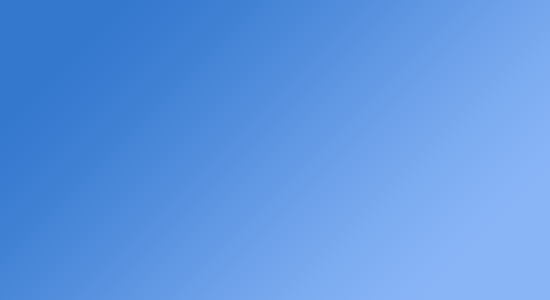
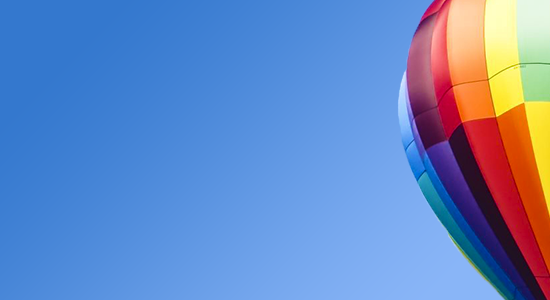
Updated AboutApplicationDialog

Changed region(s): [[0.7109, 0.0, 1.0, 1.0]]

diff --git a/src/main/java/com/github/benchdoos/weblocopener/gui/AboutApplicationDialog.java b/src/main/java/com/github/benchdoos/weblocopener/gui/AboutApplicationDialog.java
@@ -54,10 +54,10 @@ public class AboutApplicationDialog extends JDialog {
     private static final Logger log = LogManager.getLogger(Logging.getCurrentClassName());
     private String librariesLabelToolTip = "Third-party Libraries used in WeblocOpener project.";
     private JPanel contentPane;
-    private JTextPane weblocOpenerBWillTextPane;
+    private JTextPane descriptionTextPane;
     private JLabel versionLabel;
     private ImagePanel imagePanel1;
-    private JScrollPane scrollPane1;
+    private JScrollPane scrollPane;
     private JLabel siteLinkLabel;
     private JLabel githubLinkLabel;
     private JLabel logLabel;
@@ -65,7 +65,6 @@ public class AboutApplicationDialog extends JDialog {
     private JLabel librariesLabel;
     private JLabel telegramLabel;
     private JLabel shareLabel;
-    private JLabel risingBalloonLogoLabel;
     private JLabel donateLabel;
     private String shareLabelText;
     private String shareBalloonMessage;
@@ -98,105 +97,97 @@ public class AboutApplicationDialog extends JDialog {
         imagePanel1.setOpaque(true);
         contentPane.add(imagePanel1, new GridConstraints(0, 0, 1, 1, GridConstraints.ANCHOR_CENTER, GridConstraints.FILL_BOTH, GridConstraints.SIZEPOLICY_CAN_SHRINK | GridConstraints.SIZEPOLICY_CAN_GROW, GridConstraints.SIZEPOLICY_CAN_SHRINK | GridConstraints.SIZEPOLICY_CAN_GROW, null, null, null, 0, false));
         final JPanel panel1 = new JPanel();
-        panel1.setLayout(new GridLayoutManager(2, 2, new Insets(0, 0, 0, 0), -1, -1));
+        panel1.setLayout(new GridLayoutManager(2, 1, new Insets(0, 0, 0, 0), -1, -1));
         panel1.setBackground(new Color(-9923881));
         panel1.setOpaque(false);
         imagePanel1.add(panel1, new GridConstraints(0, 0, 1, 1, GridConstraints.ANCHOR_CENTER, GridConstraints.FILL_BOTH, GridConstraints.SIZEPOLICY_CAN_SHRINK | GridConstraints.SIZEPOLICY_CAN_GROW, GridConstraints.SIZEPOLICY_CAN_SHRINK | GridConstraints.SIZEPOLICY_CAN_GROW, null, null, null, 0, false));
         final JPanel panel2 = new JPanel();
-        panel2.setLayout(new GridLayoutManager(1, 1, new Insets(0, 0, 0, 0), -1, -1));
+        panel2.setLayout(new GridLayoutManager(1, 9, new Insets(0, 10, 10, 10), -1, -1));
+        panel2.setBackground(new Color(-9923881));
         panel2.setOpaque(false);
-        panel1.add(panel2, new GridConstraints(0, 1, 2, 1, GridConstraints.ANCHOR_NORTHEAST, GridConstraints.FILL_NONE, GridConstraints.SIZEPOLICY_CAN_SHRINK | GridConstraints.SIZEPOLICY_CAN_GROW, GridConstraints.SIZEPOLICY_CAN_SHRINK | GridConstraints.SIZEPOLICY_CAN_GROW, null, null, null, 0, false));
-        risingBalloonLogoLabel = new JLabel();
-        risingBalloonLogoLabel.setIcon(new ImageIcon(getClass().getResource("/images/balloon_animated.gif")));
-        risingBalloonLogoLabel.setText("");
-        panel2.add(risingBalloonLogoLabel, new GridConstraints(0, 0, 1, 1, GridConstraints.ANCHOR_NORTHEAST, GridConstraints.FILL_NONE, GridConstraints.SIZEPOLICY_FIXED, GridConstraints.SIZEPOLICY_FIXED, null, null, null, 0, false));
-        final JPanel panel3 = new JPanel();
-        panel3.setLayout(new GridLayoutManager(1, 9, new Insets(0, 10, 10, 10), -1, -1));
-        panel3.setBackground(new Color(-9923881));
-        panel3.setOpaque(false);
-        panel1.add(panel3, new GridConstraints(1, 0, 1, 2, GridConstraints.ANCHOR_NORTH, GridConstraints.FILL_HORIZONTAL, GridConstraints.SIZEPOLICY_CAN_SHRINK | GridConstraints.SIZEPOLICY_CAN_GROW, GridConstraints.SIZEPOLICY_CAN_SHRINK | GridConstraints.SIZEPOLICY_CAN_GROW, null, null, null, 0, false));
+        panel1.add(panel2, new GridConstraints(1, 0, 1, 1, GridConstraints.ANCHOR_NORTH, GridConstraints.FILL_HORIZONTAL, GridConstraints.SIZEPOLICY_CAN_SHRINK | GridConstraints.SIZEPOLICY_CAN_GROW, GridConstraints.SIZEPOLICY_CAN_SHRINK | GridConstraints.SIZEPOLICY_CAN_GROW, null, null, null, 0, false));
         final Spacer spacer1 = new Spacer();
-        panel3.add(spacer1, new GridConstraints(0, 3, 1, 1, GridConstraints.ANCHOR_CENTER, GridConstraints.FILL_HORIZONTAL, GridConstraints.SIZEPOLICY_WANT_GROW, 1, null, null, null, 0, false));
+        panel2.add(spacer1, new GridConstraints(0, 3, 1, 1, GridConstraints.ANCHOR_CENTER, GridConstraints.FILL_HORIZONTAL, GridConstraints.SIZEPOLICY_WANT_GROW, 1, null, null, null, 0, false));
         siteLinkLabel = new JLabel();
         siteLinkLabel.setText("site");
-        panel3.add(siteLinkLabel, new GridConstraints(0, 0, 1, 1, GridConstraints.ANCHOR_WEST, GridConstraints.FILL_NONE, GridConstraints.SIZEPOLICY_FIXED, GridConstraints.SIZEPOLICY_FIXED, null, null, null, 0, false));
+        panel2.add(siteLinkLabel, new GridConstraints(0, 0, 1, 1, GridConstraints.ANCHOR_WEST, GridConstraints.FILL_NONE, GridConstraints.SIZEPOLICY_FIXED, GridConstraints.SIZEPOLICY_FIXED, null, null, null, 0, false));
         githubLinkLabel = new JLabel();
         githubLinkLabel.setText("github");
-        panel3.add(githubLinkLabel, new GridConstraints(0, 1, 1, 1, GridConstraints.ANCHOR_WEST, GridConstraints.FILL_NONE, GridConstraints.SIZEPOLICY_FIXED, GridConstraints.SIZEPOLICY_FIXED, null, null, null, 0, false));
+        panel2.add(githubLinkLabel, new GridConstraints(0, 1, 1, 1, GridConstraints.ANCHOR_WEST, GridConstraints.FILL_NONE, GridConstraints.SIZEPOLICY_FIXED, GridConstraints.SIZEPOLICY_FIXED, null, null, null, 0, false));
         logLabel = new JLabel();
         this.$$$loadLabelText$$$(logLabel, ResourceBundle.getBundle("translations/AboutApplicationDialogBundle").getString("logLabelTooltip"));
-        panel3.add(logLabel, new GridConstraints(0, 4, 1, 1, GridConstraints.ANCHOR_WEST, GridConstraints.FILL_NONE, GridConstraints.SIZEPOLICY_FIXED, GridConstraints.SIZEPOLICY_FIXED, null, null, null, 0, false));
+        panel2.add(logLabel, new GridConstraints(0, 4, 1, 1, GridConstraints.ANCHOR_WEST, GridConstraints.FILL_NONE, GridConstraints.SIZEPOLICY_FIXED, GridConstraints.SIZEPOLICY_FIXED, null, null, null, 0, false));
         feedbackLabel = new JLabel();
         feedbackLabel.setIcon(new ImageIcon(getClass().getResource("/images/feedbackIcon.png")));
         feedbackLabel.setText("");
-        panel3.add(feedbackLabel, new GridConstraints(0, 5, 1, 1, GridConstraints.ANCHOR_WEST, GridConstraints.FILL_NONE, GridConstraints.SIZEPOLICY_FIXED, GridConstraints.SIZEPOLICY_FIXED, null, null, null, 0, false));
+        panel2.add(feedbackLabel, new GridConstraints(0, 5, 1, 1, GridConstraints.ANCHOR_WEST, GridConstraints.FILL_NONE, GridConstraints.SIZEPOLICY_FIXED, GridConstraints.SIZEPOLICY_FIXED, null, null, null, 0, false));
         librariesLabel = new JLabel();
         this.$$$loadLabelText$$$(librariesLabel, ResourceBundle.getBundle("translations/AboutApplicationDialogBundle").getString("librariesLabel"));
-        panel3.add(librariesLabel, new GridConstraints(0, 2, 1, 1, GridConstraints.ANCHOR_WEST, GridConstraints.FILL_NONE, GridConstraints.SIZEPOLICY_FIXED, GridConstraints.SIZEPOLICY_FIXED, null, null, null, 0, false));
+        panel2.add(librariesLabel, new GridConstraints(0, 2, 1, 1, GridConstraints.ANCHOR_WEST, GridConstraints.FILL_NONE, GridConstraints.SIZEPOLICY_FIXED, GridConstraints.SIZEPOLICY_FIXED, null, null, null, 0, false));
         telegramLabel = new JLabel();
         telegramLabel.setIcon(new ImageIcon(getClass().getResource("/images/telegramIcon16.png")));
         telegramLabel.setText("");
-        panel3.add(telegramLabel, new GridConstraints(0, 6, 1, 1, GridConstraints.ANCHOR_WEST, GridConstraints.FILL_NONE, GridConstraints.SIZEPOLICY_FIXED, GridConstraints.SIZEPOLICY_FIXED, null, null, null, 0, false));
+        panel2.add(telegramLabel, new GridConstraints(0, 6, 1, 1, GridConstraints.ANCHOR_WEST, GridConstraints.FILL_NONE, GridConstraints.SIZEPOLICY_FIXED, GridConstraints.SIZEPOLICY_FIXED, null, null, null, 0, false));
         shareLabel = new JLabel();
         shareLabel.setIcon(new ImageIcon(getClass().getResource("/images/shareIcon16.png")));
         shareLabel.setText("");
-        panel3.add(shareLabel, new GridConstraints(0, 7, 1, 1, GridConstraints.ANCHOR_WEST, GridConstraints.FILL_NONE, GridConstraints.SIZEPOLICY_FIXED, GridConstraints.SIZEPOLICY_FIXED, null, null, null, 0, false));
+        panel2.add(shareLabel, new GridConstraints(0, 7, 1, 1, GridConstraints.ANCHOR_WEST, GridConstraints.FILL_NONE, GridConstraints.SIZEPOLICY_FIXED, GridConstraints.SIZEPOLICY_FIXED, null, null, null, 0, false));
         donateLabel = new JLabel();
         donateLabel.setIcon(new ImageIcon(getClass().getResource("/images/donate16.png")));
         donateLabel.setText("");
-        panel3.add(donateLabel, new GridConstraints(0, 8, 1, 1, GridConstraints.ANCHOR_WEST, GridConstraints.FILL_NONE, GridConstraints.SIZEPOLICY_FIXED, GridConstraints.SIZEPOLICY_FIXED, null, null, null, 0, false));
+        panel2.add(donateLabel, new GridConstraints(0, 8, 1, 1, GridConstraints.ANCHOR_WEST, GridConstraints.FILL_NONE, GridConstraints.SIZEPOLICY_FIXED, GridConstraints.SIZEPOLICY_FIXED, null, null, null, 0, false));
+        final JPanel panel3 = new JPanel();
+        panel3.setLayout(new GridLayoutManager(2, 1, new Insets(10, 10, 0, 10), -1, -1));
+        panel3.setOpaque(false);
+        panel1.add(panel3, new GridConstraints(0, 0, 1, 1, GridConstraints.ANCHOR_CENTER, GridConstraints.FILL_BOTH, GridConstraints.SIZEPOLICY_CAN_SHRINK | GridConstraints.SIZEPOLICY_CAN_GROW, GridConstraints.SIZEPOLICY_CAN_SHRINK | GridConstraints.SIZEPOLICY_CAN_GROW, null, null, null, 0, false));
         final JPanel panel4 = new JPanel();
-        panel4.setLayout(new GridLayoutManager(2, 1, new Insets(10, 10, 0, 0), -1, -1));
+        panel4.setLayout(new GridLayoutManager(1, 1, new Insets(0, 0, 0, 0), -1, -1));
+        panel4.setAlignmentX(0.0f);
+        panel4.setAlignmentY(0.0f);
+        panel4.setBackground(new Color(-9923881));
         panel4.setOpaque(false);
-        panel1.add(panel4, new GridConstraints(0, 0, 1, 1, GridConstraints.ANCHOR_CENTER, GridConstraints.FILL_BOTH, GridConstraints.SIZEPOLICY_CAN_SHRINK | GridConstraints.SIZEPOLICY_CAN_GROW, GridConstraints.SIZEPOLICY_CAN_SHRINK | GridConstraints.SIZEPOLICY_CAN_GROW, null, null, null, 0, false));
+        panel4.setRequestFocusEnabled(true);
+        panel4.setVisible(true);
+        panel3.add(panel4, new GridConstraints(1, 0, 1, 1, GridConstraints.ANCHOR_NORTHWEST, GridConstraints.FILL_NONE, GridConstraints.SIZEPOLICY_CAN_SHRINK | GridConstraints.SIZEPOLICY_CAN_GROW, GridConstraints.SIZEPOLICY_CAN_SHRINK | GridConstraints.SIZEPOLICY_CAN_GROW, null, null, null, 0, false));
+        scrollPane.setBackground(new Color(-9923881));
+        scrollPane.setFocusable(false);
+        scrollPane.setOpaque(false);
+        scrollPane.setVisible(true);
+        scrollPane.setWheelScrollingEnabled(true);
+        panel4.add(scrollPane, new GridConstraints(0, 0, 1, 1, GridConstraints.ANCHOR_CENTER, GridConstraints.FILL_BOTH, GridConstraints.SIZEPOLICY_CAN_SHRINK | GridConstraints.SIZEPOLICY_WANT_GROW, GridConstraints.SIZEPOLICY_CAN_SHRINK | GridConstraints.SIZEPOLICY_WANT_GROW, null, new Dimension(400, 160), null, 0, false));
+        descriptionTextPane.setBackground(new Color(-9923881));
+        descriptionTextPane.setCaretColor(new Color(-1118482));
+        descriptionTextPane.setContentType(ResourceBundle.getBundle("application").getString("text.html"));
+        descriptionTextPane.setDragEnabled(false);
+        descriptionTextPane.setEditable(false);
+        descriptionTextPane.setEnabled(true);
+        descriptionTextPane.setFocusCycleRoot(false);
+        descriptionTextPane.setFocusable(false);
+        descriptionTextPane.setOpaque(false);
+        descriptionTextPane.setRequestFocusEnabled(false);
+        descriptionTextPane.setText(ResourceBundle.getBundle("translations/AboutApplicationDialogBundle").getString("aboutAppInfo"));
+        descriptionTextPane.setVerifyInputWhenFocusTarget(false);
+        descriptionTextPane.setVisible(true);
+        scrollPane.setViewportView(descriptionTextPane);
         final JPanel panel5 = new JPanel();
-        panel5.setLayout(new GridLayoutManager(1, 1, new Insets(0, 0, 0, 0), -1, -1));
+        panel5.setLayout(new GridLayoutManager(2, 1, new Insets(0, 0, 0, 0), -1, -1));
         panel5.setAlignmentX(0.0f);
         panel5.setAlignmentY(0.0f);
         panel5.setBackground(new Color(-9923881));
         panel5.setOpaque(false);
-        panel5.setRequestFocusEnabled(true);
-        panel5.setVisible(true);
-        panel4.add(panel5, new GridConstraints(1, 0, 1, 1, GridConstraints.ANCHOR_NORTHWEST, GridConstraints.FILL_NONE, GridConstraints.SIZEPOLICY_CAN_SHRINK | GridConstraints.SIZEPOLICY_CAN_GROW, GridConstraints.SIZEPOLICY_CAN_SHRINK | GridConstraints.SIZEPOLICY_CAN_GROW, null, null, null, 0, false));
-        scrollPane1.setBackground(new Color(-9923881));
-        scrollPane1.setFocusable(false);
-        scrollPane1.setOpaque(false);
-        scrollPane1.setVisible(true);
-        scrollPane1.setWheelScrollingEnabled(true);
-        panel5.add(scrollPane1, new GridConstraints(0, 0, 1, 1, GridConstraints.ANCHOR_CENTER, GridConstraints.FILL_BOTH, GridConstraints.SIZEPOLICY_CAN_SHRINK | GridConstraints.SIZEPOLICY_WANT_GROW, GridConstraints.SIZEPOLICY_CAN_SHRINK | GridConstraints.SIZEPOLICY_WANT_GROW, null, new Dimension(400, 160), null, 0, false));
-        weblocOpenerBWillTextPane.setBackground(new Color(-9923881));
-        weblocOpenerBWillTextPane.setCaretColor(new Color(-1118482));
-        weblocOpenerBWillTextPane.setContentType("text/html");
-        weblocOpenerBWillTextPane.setDragEnabled(false);
-        weblocOpenerBWillTextPane.setEditable(false);
-        weblocOpenerBWillTextPane.setEnabled(true);
-        weblocOpenerBWillTextPane.setFocusCycleRoot(false);
-        weblocOpenerBWillTextPane.setFocusable(false);
-        weblocOpenerBWillTextPane.setOpaque(false);
-        weblocOpenerBWillTextPane.setRequestFocusEnabled(false);
-        weblocOpenerBWillTextPane.setText(ResourceBundle.getBundle("translations/AboutApplicationDialogBundle").getString("aboutAppInfo"));
-        weblocOpenerBWillTextPane.setVerifyInputWhenFocusTarget(false);
-        weblocOpenerBWillTextPane.setVisible(true);
-        scrollPane1.setViewportView(weblocOpenerBWillTextPane);
-        final JPanel panel6 = new JPanel();
-        panel6.setLayout(new GridLayoutManager(2, 1, new Insets(0, 0, 0, 0), -1, -1));
-        panel6.setAlignmentX(0.0f);
-        panel6.setAlignmentY(0.0f);
-        panel6.setBackground(new Color(-9923881));
-        panel6.setOpaque(false);
-        panel4.add(panel6, new GridConstraints(0, 0, 1, 1, GridConstraints.ANCHOR_CENTER, GridConstraints.FILL_BOTH, GridConstraints.SIZEPOLICY_CAN_SHRINK | GridConstraints.SIZEPOLICY_CAN_GROW, GridConstraints.SIZEPOLICY_FIXED, null, null, null, 0, false));
+        panel3.add(panel5, new GridConstraints(0, 0, 1, 1, GridConstraints.ANCHOR_CENTER, GridConstraints.FILL_BOTH, GridConstraints.SIZEPOLICY_CAN_SHRINK | GridConstraints.SIZEPOLICY_CAN_GROW, GridConstraints.SIZEPOLICY_FIXED, null, null, null, 0, false));
         final JLabel label1 = new JLabel();
         Font label1Font = this.$$$getFont$$$(null, Font.BOLD, 24, label1.getFont());
         if (label1Font != null) label1.setFont(label1Font);
         label1.setForeground(new Color(-1));
         label1.setText("WeblocOpener");
-        panel6.add(label1, new GridConstraints(0, 0, 1, 1, GridConstraints.ANCHOR_WEST, GridConstraints.FILL_NONE, GridConstraints.SIZEPOLICY_FIXED, GridConstraints.SIZEPOLICY_FIXED, null, null, null, 0, false));
+        panel5.add(label1, new GridConstraints(0, 0, 1, 1, GridConstraints.ANCHOR_WEST, GridConstraints.FILL_NONE, GridConstraints.SIZEPOLICY_FIXED, GridConstraints.SIZEPOLICY_FIXED, null, null, null, 0, false));
         versionLabel = new JLabel();
-        Font versionLabelFont = this.$$$getFont$$$(null, -1, 10, versionLabel.getFont());
+        Font versionLabelFont = this.$$$getFont$$$(null, -1, 11, versionLabel.getFont());
         if (versionLabelFont != null) versionLabel.setFont(versionLabelFont);
         versionLabel.setForeground(new Color(-3153931));
         this.$$$loadLabelText$$$(versionLabel, ResourceBundle.getBundle("translations/AboutApplicationDialogBundle").getString("appVersionLabel"));
-        panel6.add(versionLabel, new GridConstraints(1, 0, 1, 1, GridConstraints.ANCHOR_NORTH, GridConstraints.FILL_HORIZONTAL, GridConstraints.SIZEPOLICY_FIXED, GridConstraints.SIZEPOLICY_FIXED, null, null, null, 0, false));
+        panel5.add(versionLabel, new GridConstraints(1, 0, 1, 1, GridConstraints.ANCHOR_NORTH, GridConstraints.FILL_HORIZONTAL, GridConstraints.SIZEPOLICY_FIXED, GridConstraints.SIZEPOLICY_FIXED, null, null, null, 0, false));
     }
 
     /**
@@ -253,74 +244,29 @@ public class AboutApplicationDialog extends JDialog {
     }
 
 
-    private void addEasterListener() {
-        risingBalloonLogoLabel.addMouseListener(new MouseAdapter() {
-            int clickCount = 0;
-            int leftClickCount = 0;
-            boolean easterShown = false;
-            Timer timer = new Timer(500, e -> {
-                if (clickCount < 3) {
-                    clickCount = 0;
-                } else {
-                    showEaster();
-                }
-
-                if (leftClickCount < 2) {
-                    leftClickCount = 0;
-                }
-            });
-
-            @Override
-            public void mouseClicked(MouseEvent e) {
-                if (e.getButton() == MouseEvent.BUTTON3) {
-                    if (!timer.isRunning()) {
-                        timer.setRepeats(true);
-                        timer.start();
-                    }
-                    clickCount++;
-                }
-
-                if (e.getButton() == MouseEvent.BUTTON1 && easterShown) {
-                    leftClickCount++;
-                    if (leftClickCount >= 2) {
-                        leftClickCount = 0;
-                        UrlsProceed.openUrl("https://vk.cc/79FQIY"); //hardcoded not to give to find it in source code :<
-                        dispose();
-                    }
-                }
-            }
-
-            private void showEaster() {
-                risingBalloonLogoLabel.setIcon(new ImageIcon(Toolkit.getDefaultToolkit()
-                        .getImage(ShowQrDialog.class.getResource("/images/easter.png"))));
-                easterShown = true;
-            }
-        });
-    }
-
     private void addWindowMoveListeners() {
         MousePickListener mousePickListener = new MousePickListener(this);
 
         imagePanel1.addMouseListener(mousePickListener.getMouseAdapter);
         imagePanel1.addMouseMotionListener(mousePickListener.getMouseMotionAdapter);
 
-        risingBalloonLogoLabel.addMouseListener(mousePickListener.getMouseAdapter);
-        risingBalloonLogoLabel.addMouseMotionListener(mousePickListener.getMouseMotionAdapter);
+//        risingBalloonLogoLabel.addMouseListener(mousePickListener.getMouseAdapter);
+//        risingBalloonLogoLabel.addMouseMotionListener(mousePickListener.getMouseMotionAdapter);
 
-        weblocOpenerBWillTextPane.addMouseListener(mousePickListener.getMouseAdapter);
+        descriptionTextPane.addMouseListener(mousePickListener.getMouseAdapter);
 
-        weblocOpenerBWillTextPane.addMouseMotionListener(mousePickListener.getMouseMotionAdapter);
+        descriptionTextPane.addMouseMotionListener(mousePickListener.getMouseMotionAdapter);
     }
 
     private void createUIComponents() {
         ImageIcon image = new ImageIcon(getClass().getResource("/images/background.png"));
         imagePanel1 = new ImagePanel(image);
-        weblocOpenerBWillTextPane = new JTextPane();
+        descriptionTextPane = new JTextPane();
 
-        scrollPane1 = new JScrollPane();
-        scrollPane1.setOpaque(false);
-        scrollPane1.getViewport().setOpaque(false);
-        scrollPane1.setBorder(BorderFactory.createEmptyBorder());
+        scrollPane = new JScrollPane();
+        scrollPane.setOpaque(false);
+        scrollPane.getViewport().setOpaque(false);
+        scrollPane.setBorder(BorderFactory.createEmptyBorder());
 
     }
 
@@ -340,7 +286,6 @@ public class AboutApplicationDialog extends JDialog {
         setSize(550, 300);
         setResizable(false);
         setLocation(FrameUtils.getFrameOnCenterLocationPoint(this));
-        addEasterListener();
         log.debug("GUI created");
     }
 
